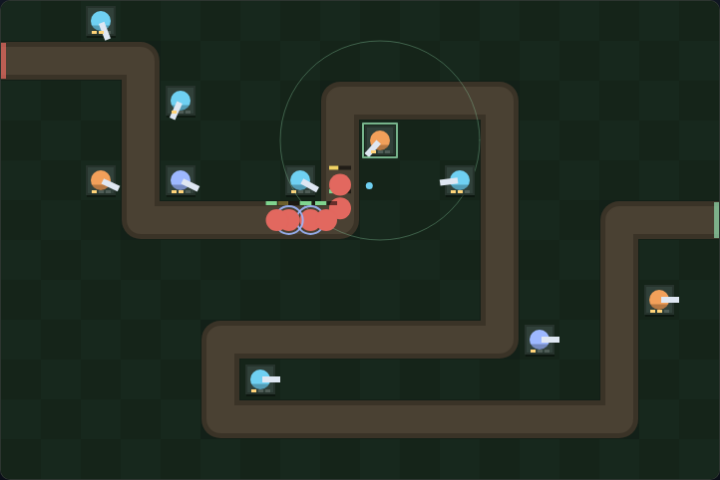
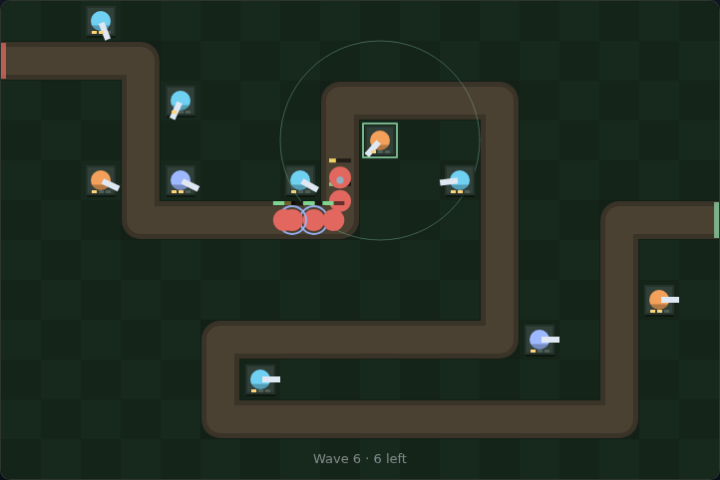
Polish Tower Defense visuals, HUD feedback and wave pacing
- Rework tower art: coloured turret dome over a base plate with gold
  level pips, so tower type and level read at a glance.
- Grey out build buttons you cannot afford and disable Upgrade when the
  gold is not there.
- Preview a tower's range on hover, not just on selection.
- Show "Wave N · X left" on the canvas while a wave is running.
- Retune difficulty (creep hp growth, rewards, wave bonus, wave 6/8
  counts) so a near-optimal autoplay probe wins at 15/20 lives instead
  of an untouched 20/20.
- Add a test that rides the real requestAnimationFrame loop, since every
  other test drives step() directly.

Claude-Session: https://claude.ai/code/session_01EPzi4BYs1LVz9zrbioKe1i

Changed region(s): [[0.3667, 0.3125, 0.5194, 0.5], [0.4278, 0.9375, 0.5806, 0.9688]]

diff --git a/TowerDefense/game.js b/TowerDefense/game.js
@@ -618,7 +618,6 @@ function checkWaveComplete() {
     score += bonus;
     effects.push({ x: CANVAS_W / 2, y: 60, t: 0, life: 1.2, text: 'WAVE CLEAR +' + bonus, kind: 'gold' });
     if (wave >= WAVES.length) winGame();
-    else showBetweenWaves();
 }
 
 // ---------------------------------------------------------------------------
@@ -703,6 +702,15 @@ function updateHud() {
     waveEl.textContent = wave + '/' + WAVES.length;
     scoreEl.textContent = String(score);
     bestEl.textContent = String(bestWave);
+    for (const type of BUILD_KEYS) {
+        document
+            .getElementById('build-' + type)
+            .classList.toggle('broke', money < TOWER_TYPES[type].cost);
+    }
+    if (selectedTower) {
+        btnUpgrade.disabled =
+            selectedTower.level >= MAX_LEVEL || money < upgradeCost(selectedTower);
+    }
 }
 
 function showOverlay(title, sub, hint) {
@@ -714,11 +722,6 @@ function showOverlay(title, sub, hint) {
 
 function hideOverlay() {
     overlay.classList.remove('visible');
-}
-
-function showBetweenWaves() {
-    // Between waves the board stays live (projectiles finish, towers can be
-    // built and sold); the prompt lives on the canvas rather than the overlay.
 }
 
 function refreshShop() {
@@ -785,6 +788,14 @@ function drawBuildHint() {
     if (!hover) return;
     const { c, r } = hover;
     if (!inGrid(c, r)) return;
+    const hovered = towerAt(c, r);
+    if (hovered && hovered !== selectedTower) {
+        ctx.strokeStyle = 'rgba(230, 237, 247, 0.28)';
+        ctx.lineWidth = 1;
+        ctx.beginPath();
+        ctx.arc(hovered.x, hovered.y, towerRange(hovered), 0, Math.PI * 2);
+        ctx.stroke();
+    }
     if (selectedType) {
         const ok = isBuildable(c, r) && money >= TOWER_TYPES[selectedType].cost;
         ctx.fillStyle = ok ? 'rgba(143, 214, 168, 0.22)' : 'rgba(226, 104, 95, 0.22)';
@@ -905,6 +916,14 @@ function drawBanner() {
         ctx.fillStyle = '#e6edf7';
         ctx.font = 'bold 30px "Segoe UI", system-ui, sans-serif';
         ctx.fillText('PAUSED', CANVAS_W / 2, CANVAS_H / 2);
+    } else if (state === 'running' && waveActive) {
+        ctx.fillStyle = 'rgba(230, 237, 247, 0.5)';
+        ctx.font = '13px "Segoe UI", system-ui, sans-serif';
+        ctx.fillText(
+            'Wave ' + wave + ' · ' + (enemies.length + spawnQueue.length) + ' left',
+            CANVAS_W / 2,
+            CANVAS_H - 16,
+        );
     } else if (state === 'running' && !waveActive) {
         ctx.fillStyle = 'rgba(143, 214, 168, 0.9)';
         ctx.fillText(

diff --git a/TowerDefense/tests/tower-defense.spec.js b/TowerDefense/tests/tower-defense.spec.js
@@ -154,6 +154,15 @@ test.describe('Tower Defense', () => {
             expect(await page.evaluate(() => enemies.length)).toBeGreaterThan(0);
         });
 
+        // Everything else drives step() directly; this one check rides the real
+        // requestAnimationFrame loop so a broken frame() would be caught.
+        test('the animation loop advances the game in real time', async ({ page }) => {
+            await page.locator('#btn-start').click();
+            await page.waitForTimeout(1500);
+            const moved = await page.evaluate(() => enemies.length > 0 && enemies[0].dist > 0);
+            expect(moved).toBe(true);
+        });
+
         test('the wave counter updates in the HUD', async ({ page }) => {
             await page.evaluate(() => startGame());
             await expect(page.locator('#wave')).toContainText('1');

diff --git a/TowerDefense/style.css b/TowerDefense/style.css
@@ -253,3 +253,12 @@ kbd {
     font-family: inherit;
     font-size: 11px;
 }
+
+.build.broke {
+    opacity: 0.45;
+}
+
+.tower-panel button:disabled {
+    opacity: 0.4;
+    cursor: default;
+}

diff --git a/TowerDefense/DESIGN.md b/TowerDefense/DESIGN.md
@@ -109,14 +109,16 @@ hard-coding tile coordinates, and they double as real game logic:
 
 ## Testing approach
 
-Written test-first with `@playwright/test`: the 64-test spec in
+Written test-first with `@playwright/test`: the 65-test spec in
 `tests/tower-defense.spec.js` was committed red, then `index.html`, `style.css`
 and `game.js` were written until it went green. Coverage is grouped into page
 scaffolding, map invariants (road is axis aligned, road tiles are not buildable,
 out-of-grid tiles are not buildable), starting, building rules, upgrade/sell
 economics, creep movement (including "a creep never leaves a road tile for the
 whole run"), combat (range, targeting priority, splash, slow), wave flow, win and
-loss, pause/restart/persistence, and rendering.
+loss, pause/restart/persistence, and rendering. One test deliberately rides the
+real `requestAnimationFrame` loop rather than `step()`, so a broken `frame()`
+cannot hide behind the deterministic tests.
 
 Balance was checked with a throwaway autoplay probe that ranks open tiles by how
 much road they cover, buys greedily and launches every wave immediately. Tuning
